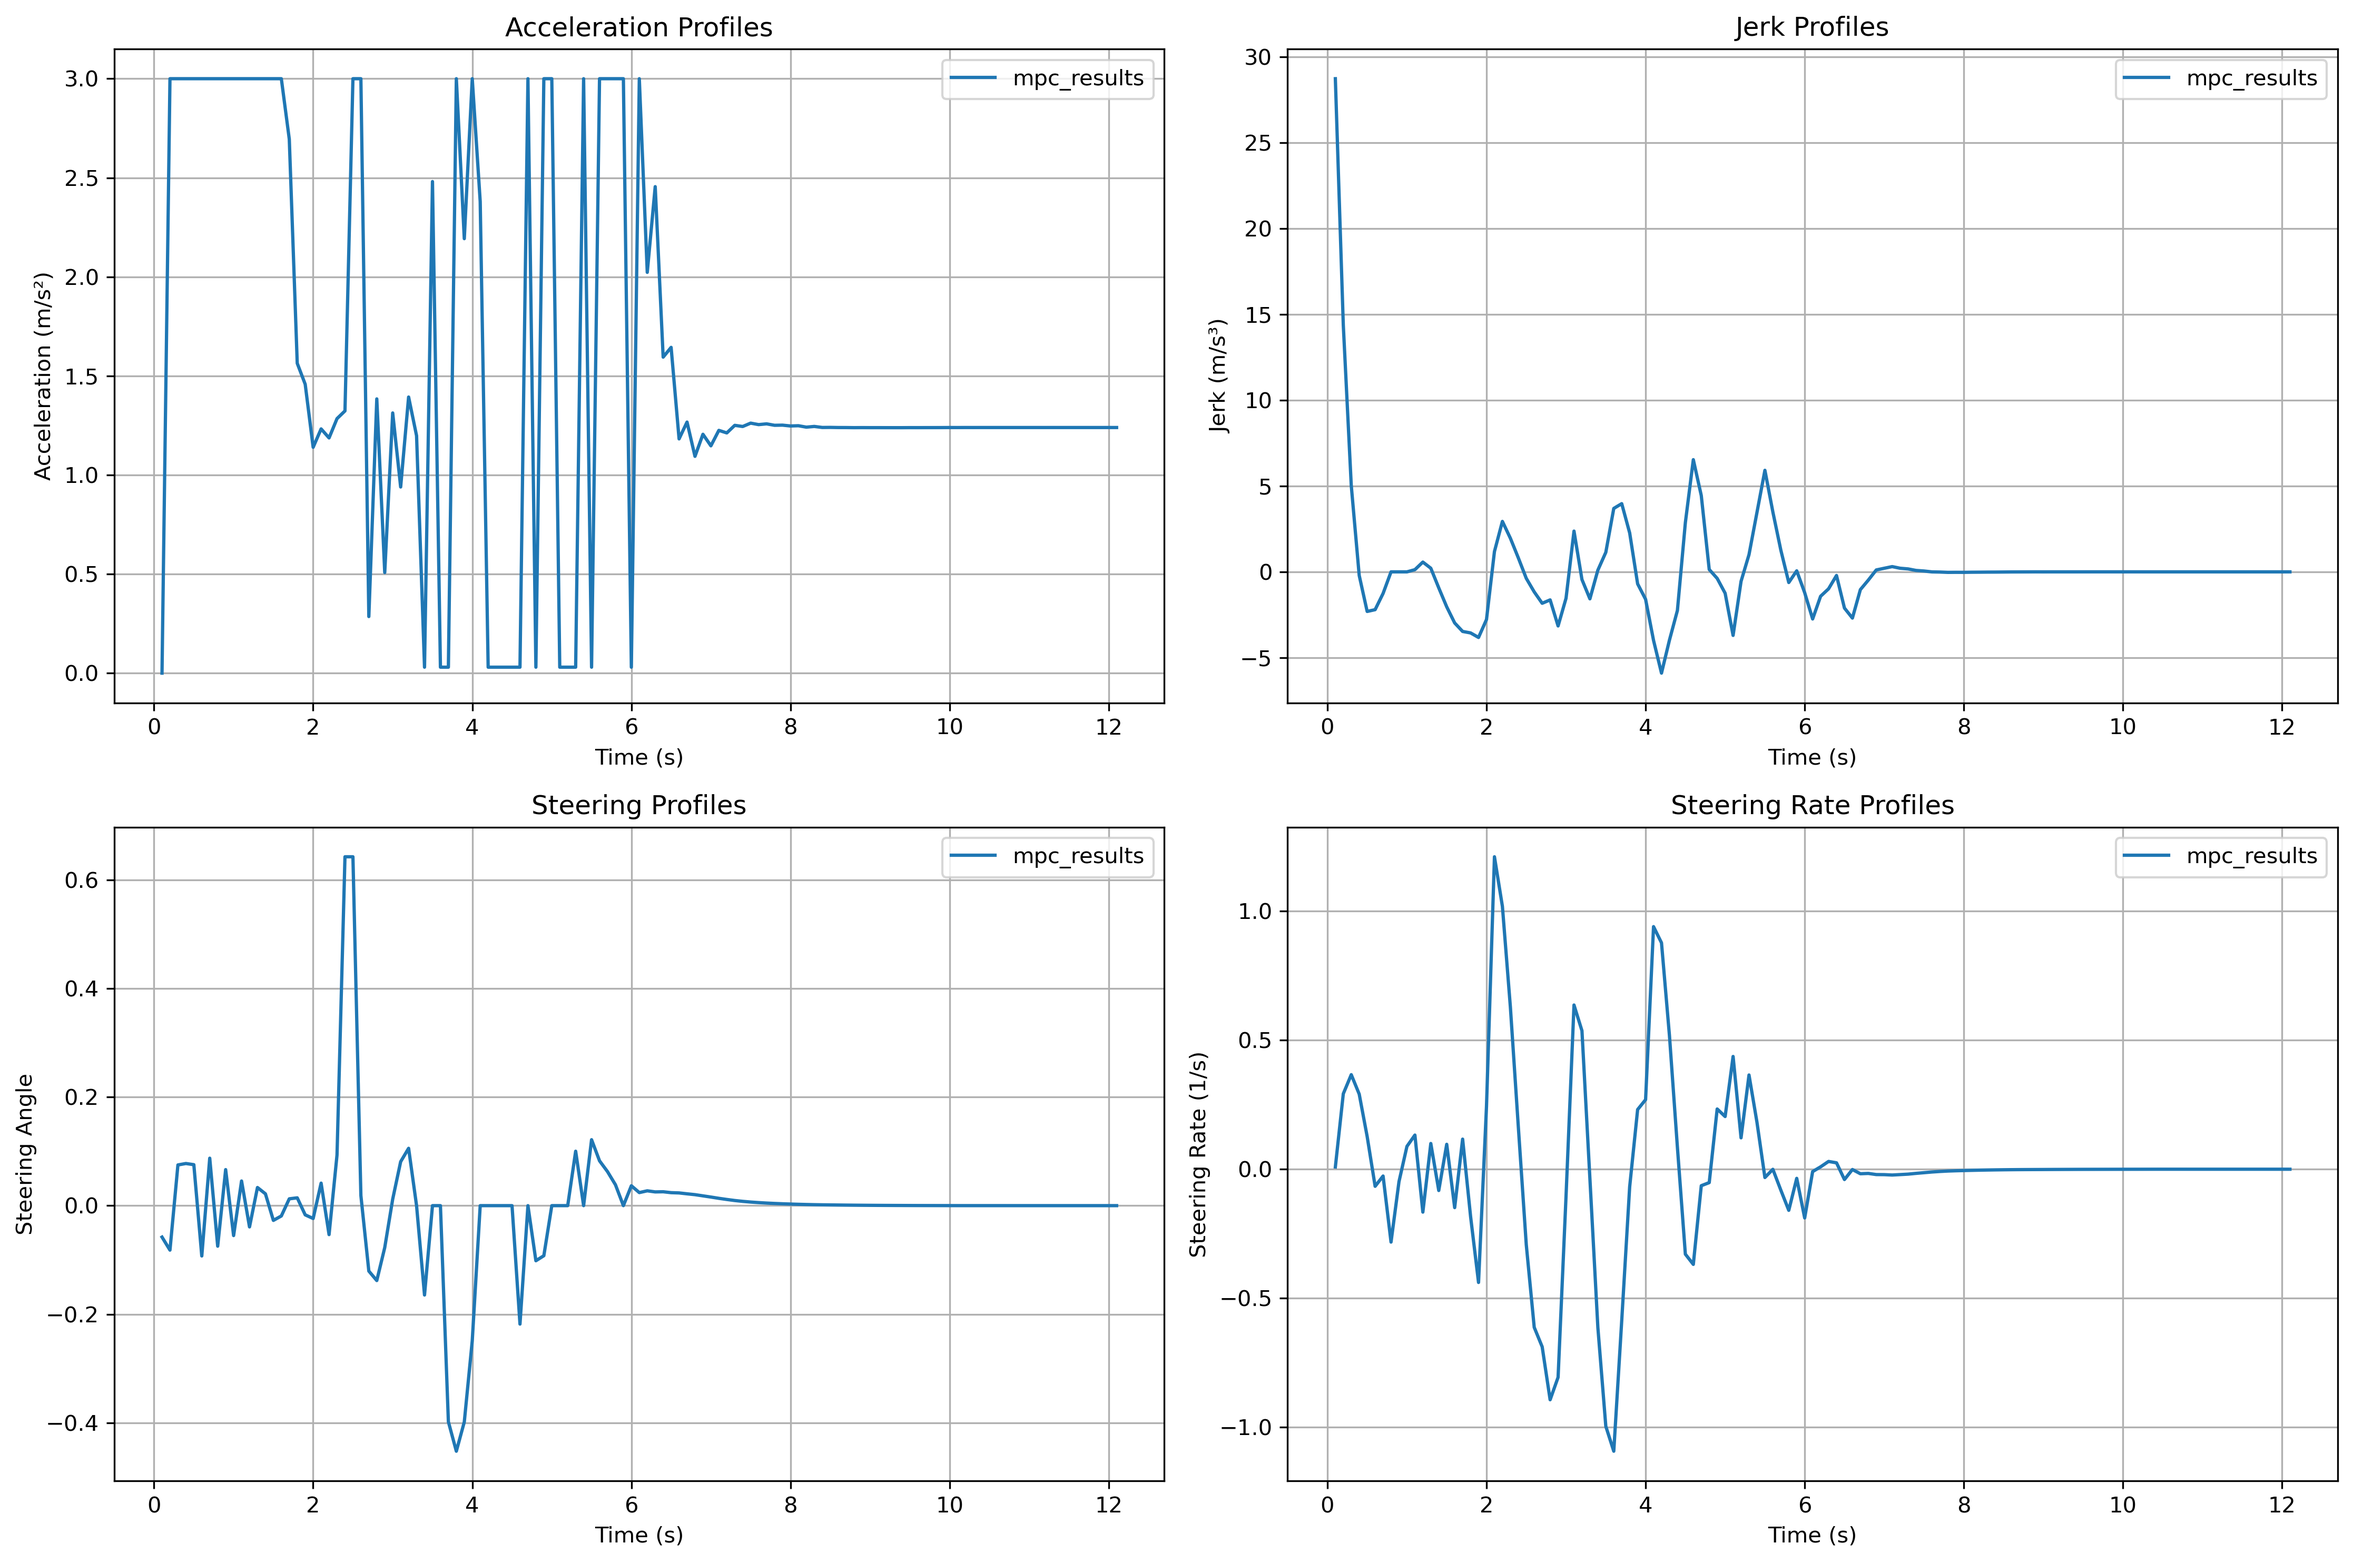
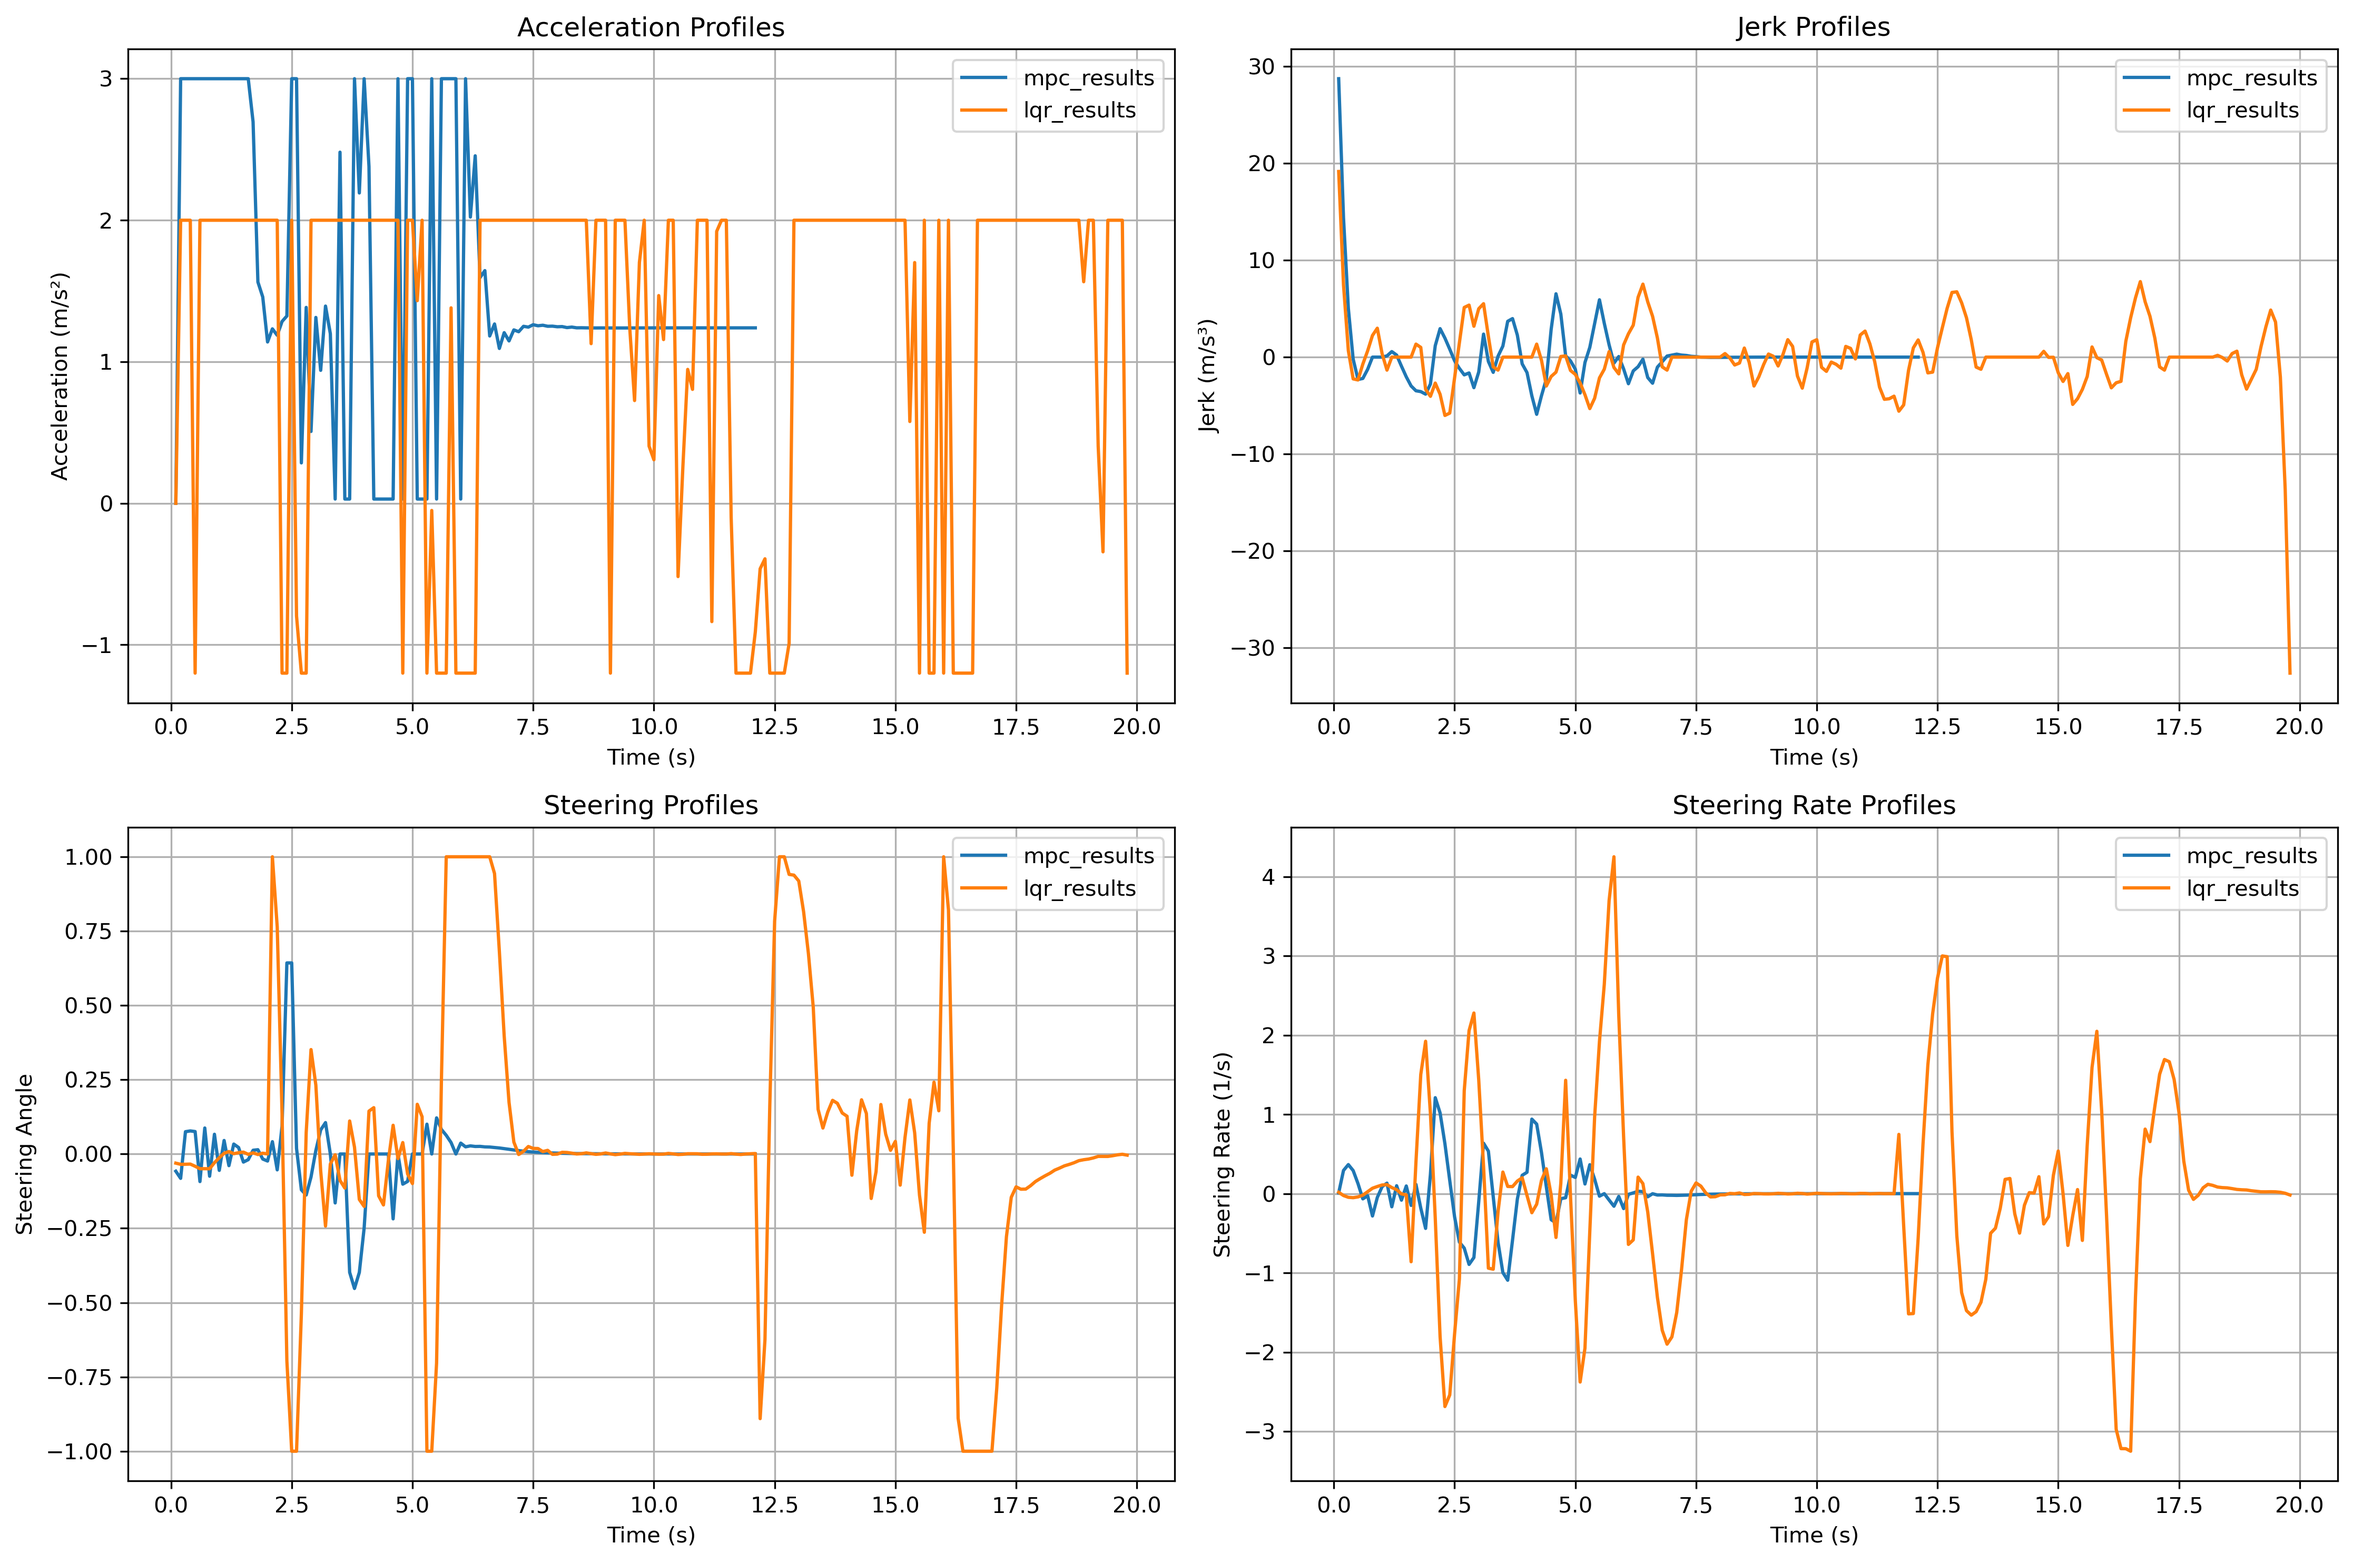
adapted LQR for plotting

diff --git a/test_LQR.py b/test_LQR.py
@@ -9,6 +9,10 @@ from scipy.linalg import solve_continuous_are
 import math
 import atexit
 import traceback
+from vehicle import Vehicle  # custom vehicle class to handle transformations
+import csv
+import os
+from datetime import datetime
 
 
 
@@ -604,14 +608,18 @@ if __name__ == "__main__":
     carla_manager = CarlaManager()
     print("CarlaManager is created")
     try:
-        preceding_vehicle = carla_manager.spawn_vehicle("vehicle.tesla.model3", SPAWN_LOCATION)
-        preceding_vehicle.set_autopilot(False)
+        preceding_vehicle_actor = carla_manager.spawn_vehicle("vehicle.tesla.model3", SPAWN_LOCATION)
+        preceding_vehicle_actor.set_autopilot(False)
         time.sleep(1)  # allow the vehicle to spawn
         carla_manager.world.tick()
+
+        # Wrap with Vehicle class
+        preceding_vehicle = Vehicle(preceding_vehicle_actor)
+
         # start autopilot controller for preciding vehicle
-        agent = BasicAgent(preceding_vehicle, target_speed=10)
+        agent = BasicAgent(preceding_vehicle_actor, target_speed=10)
         # set destination for the preceding vehicle
-        current_location = preceding_vehicle.get_location()
+        current_location = preceding_vehicle_actor.get_location()
         current_wp = carla_manager.map.get_waypoint(current_location, project_to_road=True)
         next_wps = current_wp.next(100.0)  
         if next_wps:  # if there is a waypoint ahead
@@ -621,11 +629,11 @@ if __name__ == "__main__":
         agent.set_destination(destination)  # choose a destination appropriately
         # spawn ego vehicle
         SPAWN_LOCATION[0] += 20
-        ego_vehicle = carla_manager.spawn_vehicle("vehicle.tesla.model3", SPAWN_LOCATION)
+        ego_vehicle_actor = carla_manager.spawn_vehicle("vehicle.tesla.model3", SPAWN_LOCATION)
         time.sleep(1)  # allow the vehicle to spawn
         carla_manager.world.tick()
         # generate overtaking waypoints
-        waypoints, location_points, transitionIdx = generate_overtake_waypoints(carla_manager, ego_vehicle,
+        waypoints, location_points, transitionIdx = generate_overtake_waypoints(carla_manager, ego_vehicle_actor,
                                                 direction="left",
                                                 distance_current_lane=10.0,
                                                 lane_change_step=1.0,
@@ -640,52 +648,112 @@ if __name__ == "__main__":
         stage = "STRAIGHT"
         desired_vel = 25.0
 
+        # Initialize data collection before the main loop
+        import os
+        from datetime import datetime
+        os.makedirs('results', exist_ok=True)
+        simulation_data = []
+        sim_time = 0.0
+
+        # Wrap with Vehicle class
+        ego_vehicle = Vehicle(ego_vehicle_actor)
+
+        # Save spawn transform and initialize transformation matrices
+        ego_vehicle.transform_to_spawn = ego_vehicle_actor.get_transform()
+        world_to_ego, ego_to_world = ego_vehicle.get_transform_matrices()
+
         try:
             # main loop:
             while True:
-
-                # Initialize data collection
-                import os
-                from datetime import datetime
-                os.makedirs('results', exist_ok=True)
-                simulation_data = []
-                initial_transform = ego_vehicle.get_transform()
-                sim_time = 0.0
-
                 # Control for the preceding vehicle
                 control_cmd = agent.run_step()
-                preceding_vehicle.apply_control(control_cmd)
+                preceding_vehicle_actor.apply_control(control_cmd)
+                
                 # LQR for the ego vehicle
-                next_overtake_wp, current_wp_index = get_next_waypoint_from_list(waypoints, ego_vehicle, current_wp_index, threshold=2.0)
+                next_overtake_wp, current_wp_index = get_next_waypoint_from_list(waypoints, ego_vehicle.actor, current_wp_index, threshold=2.0)
                 lookahead_idx = min(current_wp_index + lookahead_offset, len(location_points)-1)
                 next_overtake_location = location_points[lookahead_idx]
-                # next_overtake_location = location_points[current_wp_index]
+                
                 # Get current state
-                x_cur = get_current_state(ego_vehicle)
+                x_cur = get_current_state(ego_vehicle.actor)
 
                 # Get control w.r.t. next_wp and current state
-                if (lookahead_idx == transitionIdx[0]) or (lookahead_idx == transitionIdx[2]):  # start tranistion
+                if (lookahead_idx == transitionIdx[0]) or (lookahead_idx == transitionIdx[2]):  # start transition
                     stage = "TRANSITION"
-                elif (lookahead_idx == transitionIdx[1]) or (lookahead_idx == transitionIdx[3]):    # start straight
+                elif (lookahead_idx == transitionIdx[1]) or (lookahead_idx == transitionIdx[3]):  # start straight
                     stage = "STRAIGHT"
 
-                dist = abs(ego_vehicle.get_location().x - preceding_vehicle.get_location().x)
-                lateral_dis = abs(ego_vehicle.get_location().y - preceding_vehicle.get_location().y)
+                dist = abs(ego_vehicle.actor.get_location().x - preceding_vehicle.actor.get_location().x)
+                lateral_dis = abs(ego_vehicle.actor.get_location().y - preceding_vehicle.actor.get_location().y)
                 if dist < safe_distance and lateral_dis < 1.0 and lookahead_idx < transitionIdx[0]:
                     desired_vel = 15.0  
                 else:
                     desired_vel = 25.0
 
-                u_next, x_next, x0 = LQR_Controller(x_cur, location_points, lookahead_idx, u_next, desired_vel, stage)     # desired velocity as 20 km/h
+                u_next, x_next, x0 = LQR_Controller(x_cur, location_points, lookahead_idx, u_next, desired_vel, stage)
 
                 control = convert2Carla(u_next)
-                ego_vehicle.apply_control(control)
+                ego_vehicle.actor.apply_control(control)
+
+                # Save the state and control input as a csv file for plotting later
+                sim_time += dt
+                
+                # Get ego vehicle state in ego coordinates
+                ego_state = ego_vehicle.get_vehicle_state()
+                
+                # Get preceding vehicle position in ego coordinates
+                preceding_location = preceding_vehicle_actor.get_location()
+                preceding_pos_in_ego = ego_vehicle.world_to_ego_coordinates(preceding_location)
+                
+                # Get target waypoint in ego coordinates
+                wp_location = next_overtake_wp.transform.location
+                wp_pos_in_ego = ego_vehicle.world_to_ego_coordinates(wp_location)
+                
+                # Create data record
+                data_point = {
+                    'time': sim_time,
+                    'ego_x': ego_state[0],
+                    'ego_y': ego_state[1],
+                    'ego_heading': ego_state[2],
+                    'ego_speed': ego_state[3],
+                    'ego_accel': ego_state[4],
+                    'preceding_x': preceding_pos_in_ego[0],
+                    'preceding_y': preceding_pos_in_ego[1],
+                    'control_throttle': control.throttle,
+                    'control_brake': control.brake,
+                    'control_steer': control.steer,
+                    'target_waypoint_x': wp_pos_in_ego[0],
+                    'target_waypoint_y': wp_pos_in_ego[1],
+                    'lqr_delta_cmd': u_next[0],
+                    'lqr_accel_cmd': u_next[1]
+                }
+                
+                # Append to data collection
+                simulation_data.append(data_point)
+                
+                # Check if target position reached (100m in ego x-direction)
+                if ego_state[0] >= 100:
+                    print(f"Target position reached at {ego_state[0]:.2f}m in ego frame. Ending simulation.")
+                    
+                    # Save data to CSV
+                    timestamp = datetime.now().strftime("%Y%m%d_%H%M%S")
+                    csv_filename = f'results/overtaking_simulation_{timestamp}_LQR.csv'
+                    
+                    with open(csv_filename, 'w', newline='') as csvfile:
+                        writer = csv.DictWriter(csvfile, fieldnames=data_point.keys())
+                        writer.writeheader()
+                        for data_row in simulation_data:
+                            writer.writerow(data_row)
+                    
+                    print(f"Data saved to {csv_filename}")
+                    break
+                    
                 carla_manager.world.tick()
                 time.sleep(0.05)
 
+
                 log_both("=" * 50, log_file)
                 log_both(f"x_cur: x = {x_cur[0]:.2f}, y = {x_cur[1]:.2f}, ψ = {np.degrees(x_cur[2]):.1f}°, v = {x_cur[3]:.2f} m/s", log_file)
-                # log_both(f"lqr linearization center: x = {x0[0]:.2f}, y = {x0[1]:.2f}, ψ = {np.degrees(x0[2]):.1f}°", log_file)
                 log_both(f"target (linearization center): x = {x0[0]:.2f}, y = {x0[1]:.2f}, ψ = {np.degrees(x0[2]):.1f}°", log_file)
                 log_both(f"x_next: x = {x_next[0]:.2f}, y = {x_next[1]:.2f}, ψ = {np.degrees(x_next[2]):.1f}°", log_file)
                 log_both(f"distance to the leading vehicle: {dist}, lateral distance: {lateral_dis}, current desired vel: {desired_vel* 5 / 18}", log_file)
@@ -695,7 +763,6 @@ if __name__ == "__main__":
                 log_both("=" * 50, log_file)
 
         except KeyboardInterrupt:
-            carla_manager.__del__()
             print("\nSimulation terminated by user")
 
     except Exception as e:
@@ -703,17 +770,27 @@ if __name__ == "__main__":
         traceback.print_exc()
 
     finally:
-        if preceding_vehicle is not None:
-            preceding_vehicle.destroy()
-        if ego_vehicle is not None:
-            ego_vehicle.destroy()
+        # Save collected data to CSV if simulation was interrupted
+        if 'simulation_data' in locals() and len(simulation_data) > 0:
+
+            os.makedirs('results', exist_ok=True)
+            timestamp = datetime.now().strftime("%Y%m%d_%H%M%S")
+            csv_filename = f'results/overtaking_simulation_{timestamp}_LQR.csv'
+            
+            with open(csv_filename, 'w', newline='') as csvfile:
+                writer = csv.DictWriter(csvfile, fieldnames=simulation_data[0].keys())
+                writer.writeheader()
+                for data_row in simulation_data:
+                    writer.writerow(data_row)
+            
+            print(f"Simulation data saved to {csv_filename}")
+        
+        # Cleanup
+        if 'preceding_vehicle_actor' in locals() and preceding_vehicle_actor is not None:
+            preceding_vehicle_actor.destroy()
+        if 'ego_vehicle_actor' in locals() and ego_vehicle_actor is not None:
+            ego_vehicle_actor.destroy()
         carla_manager.__del__()
         log_both("==== LQR Tracking Log End ====", log_file)
         log_file.close()
         print("Simulation completed and log file closed.")
-    
-
-
-
-
-        

diff --git a/mpc_transform.py b/mpc_transform.py
@@ -573,7 +573,7 @@ def run_simulation_with_casadi():
         preceding_vehicle = Vehicle(preceding_vehicle_actor)
 
         # Basic agent for preceding vehicle
-        preceding_agent = BasicAgent(preceding_vehicle_actor, target_speed=PRECEDING_SPEED)  # 5 km/h
+        preceding_agent = BasicAgent(preceding_vehicle_actor, target_speed=PRECEDING_SPEED) 
 
 
         # Set destination
